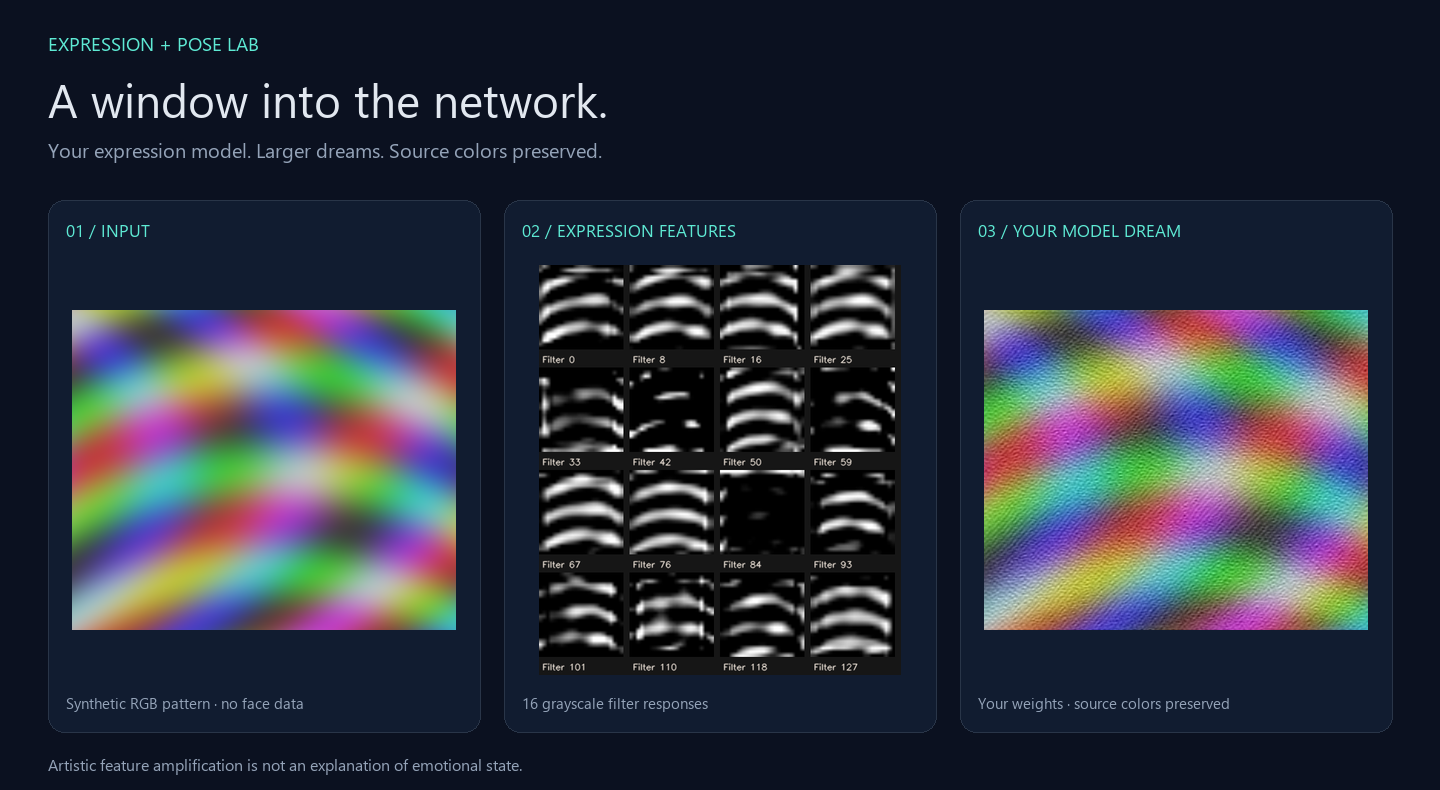
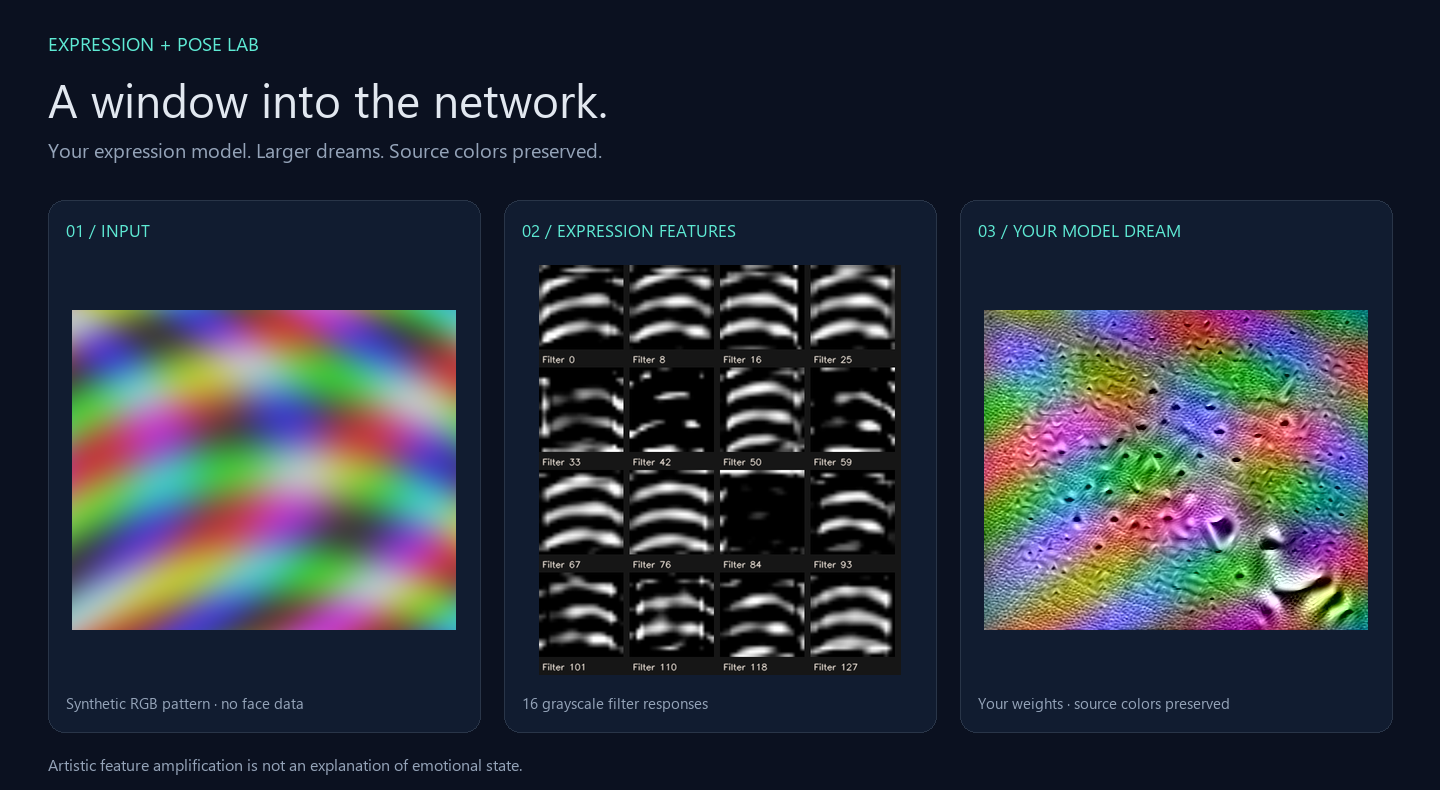
Develop stronger held-frame dreams from the expression model's own features

Changed region(s): [[0.6562, 0.3949, 0.9688, 0.8203]]

diff --git a/desktop.py b/desktop.py
@@ -49,7 +49,7 @@ def main():
     current_source='Stopped';last_frame=None;last_visual=None;photos={};layer_names=[]
     active_model=resource_root()/'models/expression-baseline.h5'
     variables={name:tk.BooleanVar(value=value) for name,value in [('predictions',False),('pose',False),('help',True),('fps',True)]}
-    visual=tk.StringVar(value='Off');visual_choice=tk.StringVar(value='Live view');layer=tk.StringVar(value='Shapes');camera=tk.StringVar(value='0');region=tk.StringVar();strength=tk.DoubleVar(value=.015);steps=tk.StringVar(value='Balanced');threshold=tk.DoubleVar(value=.6)
+    visual=tk.StringVar(value='Off');visual_choice=tk.StringVar(value='Live view');layer=tk.StringVar(value='Shapes');camera=tk.StringVar(value='0');region=tk.StringVar();strength=tk.DoubleVar(value=.025);steps=tk.StringVar(value='Detailed');threshold=tk.DoubleVar(value=.6)
     status=tk.StringVar(value='Choose Camera, Screen, or Open image to begin. No capture starts automatically.')
     device_text=tk.StringVar(value='Detecting compute device…')
     source_text=tk.StringVar(value='IDLE');metrics_text=tk.StringVar(value='Ready when you are');visual_text=tk.StringVar(value='Feature maps show filter responses; DeepDream changes image pixels.');model_text=tk.StringVar(value='Recovered baseline · original capstone weights')
@@ -73,6 +73,7 @@ def main():
     def section(title):
         label(sidebar,title,10,mint).pack(anchor='w',padx=16,pady=(15,5))
     colorful=tk.BooleanVar(value=True)
+    dream_motion=tk.StringVar(value='Develop');dream_revision=tk.IntVar(value=0)
     explain_target=tk.StringVar(value='Top prediction');dream_engine=tk.StringVar(value='Expression');dream_scope=tk.StringVar(value='Whole frame');dream_quality=tk.StringVar(value='Balanced');focus_art=tk.BooleanVar(value=False)
     def selected_layer():
         if not layer_names:return ''
@@ -83,7 +84,7 @@ def main():
         nonlocal last_visual
         last_visual=None
         visual_choice.set({'Off':'Live view','DeepDream':'Dream','Activations':'Feature maps','GradCAM':'Explain prediction'}[visual.get()])
-        engine.configure(predictions=variables['predictions'].get(),pose=variables['pose'].get(),visual=visual.get(),layer=selected_layer(),strength=strength.get(),steps={'Quick':1,'Balanced':3,'Detailed':6}[steps.get()],threshold=threshold.get(),colorful=colorful.get(),dream_engine=dream_engine.get(),dream_scope=dream_scope.get(),dream_depth=layer.get(),dream_resolution={'Quick':256,'Balanced':384,'Detailed':512}[dream_quality.get()],explain_target=explain_target.get())
+        engine.configure(predictions=variables['predictions'].get(),pose=variables['pose'].get(),visual=visual.get(),layer=selected_layer(),strength=strength.get(),steps={'Quick':1,'Balanced':3,'Detailed':6}[steps.get()],threshold=threshold.get(),colorful=colorful.get(),dream_engine=dream_engine.get(),dream_scope=dream_scope.get(),dream_depth=layer.get(),dream_resolution={'Quick':256,'Balanced':384,'Detailed':512}[dream_quality.get()],explain_target=explain_target.get(),dream_motion=dream_motion.get(),dream_revision=dream_revision.get())
         live_canvas.master.grid();views.columnconfigure(0,weight=3)
         if visual.get()=='Off':
             visual_text.set('Visualization paused');vis_canvas.master.grid_remove()
@@ -127,6 +128,13 @@ def main():
     target_control=ttk.Combobox(explain_box,textvariable=explain_target,values=['Top prediction',*LABELS],state='readonly');target_control.pack(fill='x',padx=16,pady=3);target_control.bind('<<ComboboxSelected>>',lambda e:configure())
     label(explain_box,'Largest face · warm = stronger support.\nColors show relative influence, not certainty.',9,muted,justify='left',wraplength=220).pack(anchor='w',padx=16,pady=4)
     strength_box=tk.Frame(sidebar,bg=panel)
+    def develop_frame():
+        dream_motion.set('Develop');dream_revision.set(dream_revision.get()+1);configure()
+    def follow_input():
+        dream_motion.set('Live');configure()
+    ttk.Button(strength_box,text='Develop this frame',command=develop_frame,style='Accent.TButton').pack(fill='x',padx=16,pady=3)
+    ttk.Button(strength_box,text='Follow live input',command=follow_input).pack(fill='x',padx=16,pady=3)
+    label(strength_box,'Develop holds one frame and builds the dream over time.',9,muted,wraplength=220,justify='left').pack(anchor='w',padx=16,pady=4)
     label(strength_box,'Dream area',9,muted).pack(anchor='w',padx=16,pady=(5,0))
     scope_control=ttk.Combobox(strength_box,textvariable=dream_scope,values=['Whole frame','Face only'],state='readonly');scope_control.pack(fill='x',padx=16,pady=3);scope_control.bind('<<ComboboxSelected>>',lambda e:configure())
     ttk.Checkbutton(strength_box,text='Expand artwork',variable=focus_art,command=configure).pack(anchor='w',padx=12)
@@ -140,7 +148,7 @@ def main():
             control=ttk.Combobox(window,textvariable=var,values=values,state='readonly');control.pack(anchor='w',padx=24)
             control.bind('<<ComboboxSelected>>',lambda e:configure())
             label(window,explanation,9,muted,wraplength=510,justify='left').pack(anchor='w',padx=24,pady=4)
-        choice('Pattern depth',layer,['Fine detail','Shapes','Abstract'],'Fine detail emphasizes textures. Deeper features combine patterns. These are creative presets, not emotion labels.')
+        choice('Pattern depth',layer,['Fine detail','Shapes','Abstract'],'For Follow live input only. Develop this frame combines the three deepest convolution layers.')
         choice('Dream resolution',dream_quality,['Quick','Balanced','Detailed'],'256, 384, or 512 pixels on the longest edge, preserving shape. Higher detail costs more GPU time; CPU is capped at 256.')
         choice('Dream processing',steps,['Quick','Balanced','Detailed'],'1, 3, or 6 pixel-update steps per refresh. More steps change the image further but can slow updates. This does not train the model.')
         ttk.Checkbutton(window,text='Preserve input colors in Dream',variable=colorful,command=configure).pack(anchor='w',padx=20,pady=8)

diff --git a/model_dream.py b/model_dream.py
@@ -16,10 +16,78 @@ def preview_size(shape,long_edge):
 class ModelDream:
     def __init__(self,model):
         import keras
-        self.keras=keras;self.model=model;self.cache={};self.previous=None;self.last_input=None;self.last_key=None;self.counter=0
+        self.keras=keras;self.model=model;self.cache={};self.previous=None;self.last_input=None;self.last_key=None;self.counter=0;self.development=None;self.deep_features=None
 
     def reset(self):
-        self.previous=None;self.last_input=None;self.last_key=None;self.counter=0
+        self.previous=None;self.last_input=None;self.last_key=None;self.counter=0;self.development=None
+
+    def render_developed(self,frame,strength=.025,steps=6,long_edge=384,preserve_color=True):
+        """Develop a held frame progressively; each call performs a bounded chunk.
+
+        Three late feature layers, mean-response objective, and long coarse ascent
+        intentionally differ from the lightweight single-layer live effect.
+        """
+        from backend import device_info
+        if self.deep_features is None:
+            layers=[l for l in self.model.layers if isinstance(l,self.keras.layers.Conv2D)][-3:]
+            source=self.keras.Model(self.model.inputs,[l.output for l in layers])
+            self.deep_features=self.keras.models.clone_model(source,input_tensors=[self.keras.Input((None,None,1))])
+            self.deep_features.set_weights(source.get_weights());self.deep_features.trainable=False
+        if self.development is None:
+            edge=min(long_edge,256) if device_info()['device']=='CPU' else long_edge
+            width,height=preview_size(frame.shape,edge)
+            original=cv2.resize(frame,(width,height),interpolation=cv2.INTER_AREA)
+            chroma=cv2.cvtColor(original,cv2.COLOR_BGR2YCrCb)
+            gray=chroma[:,:,0].astype(np.float32)/255.
+            self.development=dict(chroma=chroma,gray=gray,x=gray.copy(),base=None,phase=0,done=0,norm=None,total=0)
+        d=self.development;gray=d['gray']
+        schedule=[(48,240),(96,80),(192,30),(max(gray.shape),12)]
+        count=max(1,min(24,int(steps)))
+        for _ in range(count):
+            if d['phase']>=len(schedule):break
+            edge,limit=schedule[d['phase']]
+            edge=min(edge,max(gray.shape));scale=edge/max(gray.shape)
+            size=(max(48,round(gray.shape[1]*scale)),max(48,round(gray.shape[0]*scale)))
+            if d['done']==0:
+                base=cv2.resize(gray,size)
+                x=cv2.resize(d['x'],size)
+                if d['base'] is not None:x+=.25*(base-cv2.resize(d['base'],size))
+                d['x']=x;d['base']=base
+                tensor=self.keras.ops.convert_to_tensor(x[None,:,:,None])
+                # Fixed layer scales per octave avoid one high-amplitude layer dominating.
+                activations=self.deep_features(tensor,training=False)
+                if not isinstance(activations,(list,tuple)):activations=[activations]
+                d['norm']=[max(.01,float(np.abs(self.keras.ops.convert_to_numpy(a)).mean())) for a in activations]
+                del activations,tensor
+            i=d['done'];dy=i*3%9-4;dx=i*5%9-4
+            tensor=self.keras.ops.convert_to_tensor(np.roll(d['x'],(dy,dx),(0,1))[None,:,:,None])
+            if self.keras.backend.backend()=='torch':
+                import torch
+                tensor=tensor.detach().requires_grad_(True)
+                acts=self.deep_features(tensor,training=False)
+                if not isinstance(acts,(list,tuple)):acts=[acts]
+                objective=sum(a.mean()/v for a,v in zip(acts,d['norm']))/len(acts)
+                gradient,=torch.autograd.grad(objective,tensor)
+                updated=(tensor+strength*gradient/(gradient.std(unbiased=False)+1e-8)).clamp(0,1).detach()
+            else:
+                import tensorflow as tf
+                with tf.GradientTape() as tape:
+                    tape.watch(tensor);acts=self.deep_features(tensor,training=False)
+                    if not isinstance(acts,(list,tuple)):acts=[acts]
+                    objective=sum(tf.reduce_mean(a)/v for a,v in zip(acts,d['norm']))/len(acts)
+                gradient=tape.gradient(objective,tensor)
+                if gradient is None:raise ValueError('Feature graph has no input gradient')
+                updated=tf.clip_by_value(tensor+strength*gradient/(tf.math.reduce_std(gradient)+1e-8),0,1)
+            d['x']=np.roll(self.keras.ops.convert_to_numpy(updated)[0,:,:,0],(-dy,-dx),(0,1))
+            d['done']+=1;d['total']+=1
+            if d['done']>=limit:d['phase']+=1;d['done']=0
+        luminance=np.uint8(np.clip(cv2.resize(d['x'],(gray.shape[1],gray.shape[0])),0,1)*255)
+        if preserve_color:
+            chroma=d['chroma'].copy();chroma[:,:,0]=luminance
+            image=cv2.cvtColor(chroma,cv2.COLOR_YCrCb2BGR)
+        else:image=cv2.cvtColor(luminance,cv2.COLOR_GRAY2BGR)
+        stage=['Developing large structures','Building shapes','Refining detail','Finishing','Dream complete'][d['phase']]
+        return image,f'{stage} · held frame · {d["total"]}/362 updates. Your model’s three deepest convolution layers. Choose Develop this frame to start again.'
 
     def extractor(self,layer):
         if layer not in self.cache:

diff --git a/runtime.py b/runtime.py
@@ -30,8 +30,8 @@ class Settings:
     pose: bool = False
     visual: str = 'Off'
     layer: str = ''
-    strength: float = .015
-    steps: int = 3
+    strength: float = .025
+    steps: int = 6
     threshold: float = .6
     colorful: bool = False
     dream_engine: str = 'Expression'
@@ -39,6 +39,8 @@ class Settings:
     dream_depth: str = 'Shapes'
     dream_resolution: int = 384
     explain_target: str = 'Top prediction'
+    dream_motion: str = 'Develop'
+    dream_revision: int = 0
 
 
 class Engine:
@@ -170,7 +172,7 @@ class Engine:
             except queue.Empty:continue
             if self.snapshot().visual=='Off' or generation!=self.generation:continue
             try:
-                key=(generation,s.dream_scope,s.dream_engine,s.dream_depth,s.dream_resolution,s.layer)
+                key=(generation,s.dream_scope,s.dream_engine,s.dream_depth,s.dream_resolution,s.layer,s.visual,s.dream_motion,s.dream_revision)
                 if key!=previous_key:
                     visualizer.previous=None
                     if rgb_dream is not None:rgb_dream.reset()
@@ -190,8 +192,11 @@ class Engine:
                     if dream_model is not visualizer.model:
                         from model_dream import ModelDream
                         rgb_dream=ModelDream(visualizer.model);dream_model=visualizer.model
-                    rendered=rgb_dream.render(frame,layer,s.strength,s.steps,s.dream_resolution,preserve_color=s.colorful)
-                    caption='Your expression model drives this Dream. '+('Source colors preserved; the model still sees grayscale.' if s.colorful else 'Grayscale feature amplification.')
+                    if s.dream_motion=='Develop':
+                        rendered,caption=rgb_dream.render_developed(frame,s.strength,s.steps,s.dream_resolution,preserve_color=s.colorful)
+                    else:
+                        rendered=rgb_dream.render(frame,layer,s.strength,s.steps,s.dream_resolution,preserve_color=s.colorful)
+                        caption='Following live input · lighter effect. Use Develop this frame for a longer transformation.'
                 else:rendered=visualizer.render(frame,layer,s.visual,s.strength,s.steps,colorful=s.colorful)
                 if generation==self.generation:
                     latest(self.visuals,dict(image=rendered,seconds=time.monotonic()-start,mode=s.visual,layer=layer,generation=generation,engine=s.dream_engine,scope=s.dream_scope,settings=s,caption=caption))

diff --git a/smoke_runtime.py b/smoke_runtime.py
@@ -27,7 +27,7 @@ def main():
         engine.configure(predictions=True,visual='Activations');engine.switch('Image',image=args.image)
         frame=wait(engine.frames);features=wait(engine.visuals)
         result.update(faces=len(frame['faces']),source=frame['source'],feature_shape=list(features['image'].shape))
-        engine.configure(visual='DeepDream',colorful=False,dream_engine='Expression')
+        engine.configure(visual='DeepDream',colorful=False,dream_engine='Expression',dream_motion='Live')
         dream=wait(engine.visuals,lambda p:p['mode']=='DeepDream')
         import numpy as np
         assert np.array_equal(dream['image'][:,:,0],dream['image'][:,:,1])
@@ -41,6 +41,14 @@ def main():
         explained=wait(engine.visuals,lambda p:p['mode']=='GradCAM')
         assert 'happy' in explained['caption']
         result['explanation']=explained['caption']
+        engine.configure(visual='DeepDream',dream_motion='Develop',dream_revision=1)
+        developing=wait(engine.visuals,lambda p:p['mode']=='DeepDream' and p['settings'].dream_revision==1)
+        assert 'held frame' in developing['caption']
+        engine.configure(dream_revision=2)
+        restarted=wait(engine.visuals,lambda p:p['mode']=='DeepDream' and p['settings'].dream_revision==2)
+        assert restarted['caption'].startswith('Developing large structures')
+        result['held_frame_restart']='passed'
+        engine.configure(visual='GradCAM')
         import cv2
         args.output.parent.mkdir(parents=True,exist_ok=True)
         blank=args.output.with_name('blank-explanation-test.png')

diff --git a/selftest.py b/selftest.py
@@ -54,6 +54,14 @@ def run(root,output):
         assert np.abs(art.astype(float)-rgb).mean()>1
         cv2.imwrite(str(output/'color-dream.png'),art)
         result['ModelDream']=dict(status='passed',seconds=time.monotonic()-before,shape=list(art.shape))
+        developed,caption=dream.render_developed(rgb,steps=6,long_edge=256)
+        held=dream.development['gray'].copy()
+        dream.render_developed(np.zeros_like(rgb),steps=6,long_edge=256)
+        np.testing.assert_array_equal(dream.development['gray'],held)
+        assert dream.development['total']==12 and developed.shape==rgb.shape
+        dream.reset()
+        assert dream.development is None
+        result['DevelopDream']=dict(status='passed',held_frame=True,reset=True)
         from pose import PoseEstimator
         pose=PoseEstimator(root/'models/pose_landmarker_lite.task')
         try:result['blank_pose_count']=len(pose.detect(np.zeros((256,256,3),np.uint8)))

diff --git a/make_gallery.py b/make_gallery.py
@@ -19,7 +19,9 @@ def main():
     maps=visualizer.render(frame,visualizer.layers[2],'Activations')
     frames=[]
     dream=ModelDream(model)
-    for _ in range(20):frames.append(dream.render(frame,visualizer.layers[-1],.025,6))
+    for _ in range(62):
+        artwork,_=dream.render_developed(frame,.025,6)
+        frames.append(artwork)
     def font(size):
         try:return ImageFont.truetype('C:/Windows/Fonts/segoeui.ttf',size)
         except OSError:return ImageFont.load_default(size=size)

diff --git a/README.md b/README.md
@@ -22,14 +22,18 @@ The default view gives the input the available space. The neural panel appears o
 | Live view | Your input with optional expression and pose overlays. |
 | Feature maps | Responses from 16 filters. Brighter means stronger response **within that tile**. Each tile has its own scale; these are not class probabilities or an explanation of a prediction. |
 | Dream | Multiscale gradient ascent through the loaded expression model’s convolutional features. The same weights operate on a larger image; classification still uses 48×48 faces. |
+| Develop this frame | Default Dream behavior. Holds one frame while 362 updates build large structures, then finer detail. Click again to start a new dream from the current input. |
+| Follow live input | Faster, lighter effect that follows changing camera or screen content. It trades accumulated transformation for motion. |
 | Dream area | Whole frame (default) or Face only. Face only uses the largest detected face, falling back to the whole frame when none is found. |
 | Expand artwork | Gives the artwork the full available viewport instead of showing it beside the live input. Screen input plus Whole frame processes your screen scene. |
 | Dream intensity | How far pixels change during each update. More is not more accurate. |
-| Pattern depth, in View settings | Fine detail / Shapes / Abstract select early / middle / late convolution layers. These are navigation labels, not claims about a layer's exact semantic meaning. |
+| Pattern depth, in View settings | For Follow live input: Fine detail / Shapes / Abstract select early / middle / late convolution layers. Develop this frame combines the three deepest convolution layers. |
 | Dream processing, in View settings | Quick / Balanced / Detailed perform 1 / 3 / 6 pixel-update steps per refresh. More steps take more time; they **do not retrain the model**. |
 | Preserve input colors | Your model changes luminance; original chroma is preserved. The classifier still sees grayscale. |
 | Explain prediction | Grad-CAM for the largest detected face using the loaded classifier. Choose a class; warm areas show relative positive support, not certainty. |
 | Dream resolution, in View settings | Quick / Balanced / Detailed cap the longest edge at 256 / 384 / 512 pixels without stretching. CPU is capped at 256. |
+
+The stronger held-frame mode uses the same expression-model weights, a mean-response objective balanced across three late layers, and a 48/96/192/output-size pyramid. It spends most updates at coarse scales before refining details. It fixes gradient normalization and clips pixels into the valid range; it does not reproduce the original notebook’s unchecked pixel conversion. Results are model-dependent: face-like fragments are not guaranteed, and this remains artwork rather than a literal explanation of a prediction.
 
 ### What is trained—and what is not
 

diff --git a/VALIDATION.md b/VALIDATION.md
@@ -49,3 +49,9 @@ Added explicit backend fallback, first-frame validation, cleanup on failed attem
 - Capture is capped at 30 FPS, visualization work uses a separate bounded queue, still-image face inference is cached, and pose loads lazily. These resource controls are not a guaranteed frame-rate claim.
 - The residual run completed all 50 epochs with 1,773,735 parameters. Selected-checkpoint test accuracy: 62.1501%; macro F1: 58.3602%. The earlier compact candidate scored 59.0705% and 53.7231% on the same 3,572-image partition. This is not an independent external benchmark; the old baseline’s unknown training exposure still prevents a clean comparison with it.
 - Privacy audit of tracked files and history found only the synthetic documentation gallery as added media. No camera photo, face crop, recording, training image, or attached screenshot is committed.
+
+## Held-frame development
+
+- Stronger mode holds the first input while progressing through 362 coarse-to-fine updates, combining the three deepest convolution layers of the loaded expression model. The lighter live effect remains selectable.
+- Full development completed on the public historical sample; the completed result stayed unchanged when a different input was submitted. Reset clears the held frame. The full source check took about 30 seconds including initialization on the verified GPU, with a 0.15-second median chunk time; this is not a guaranteed camera FPS.
+- Synthetic-input smoke checks verify held-frame isolation and reset. Visual comparisons show larger distortions than the prior live settings; subjective resemblance to faces is not an accuracy measurement. Public-sample previews remain local and untracked.
